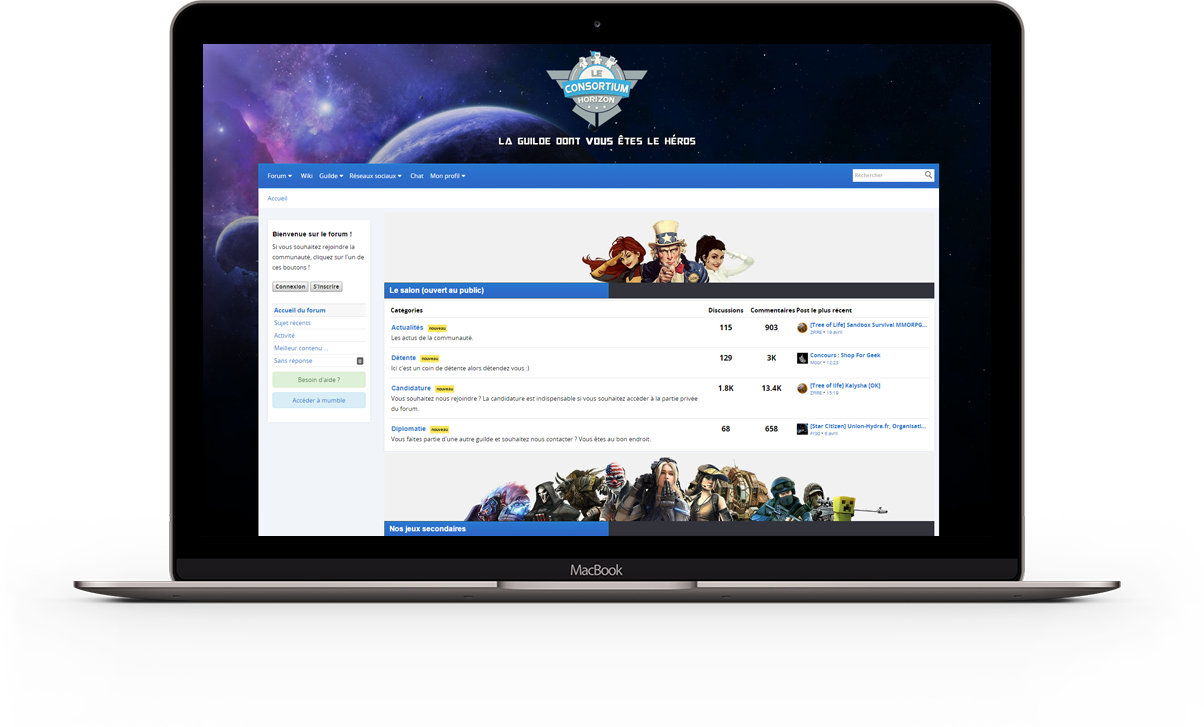
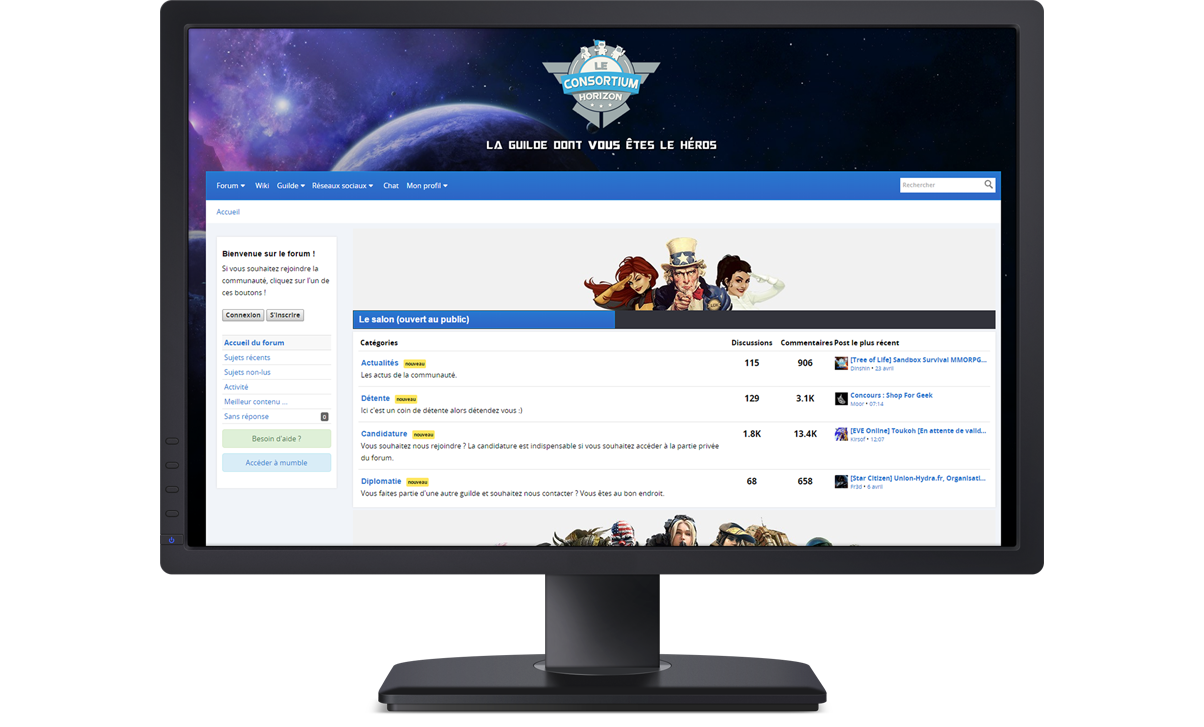
Maj CSS home page
- Forum link enhanced.
- Got rid of macbook image.

diff --git a/www/index.html b/www/index.html
@@ -60,7 +60,7 @@
 			<div class="container">
 				<nav role="navigation">
 					<ul class="pull-left left-menu">
-						<li><a href="http://www.consortium-horizon.com/forum/">Forum</a></li>
+						<li><a class="btn btn-primary" href="http://www.consortium-horizon.com/forum/">Forum</a></li>
 					</ul>
 					<ul class="pull-right right-menu">
 						<li><a href="http://www.consortium-horizon.com/forum/entry/">Se connecter</a></li>

diff --git a/www/css/blue.css b/www/css/blue.css
@@ -7,7 +7,7 @@
 }
 /* =======================================================
 *
-* 	Template Style 
+* 	Template Style
 *	Edit this section
 *
 * ======================================================= */
@@ -294,7 +294,7 @@ body {
 }
 #fh5co-header nav ul li a {
   font-size: 18px;
-  color: rgba(255, 255, 255, 0.5);
+  color: rgba(255, 255, 255, 1);
   font-weight: 400;
 }
 #fh5co-header nav ul li a:hover {
